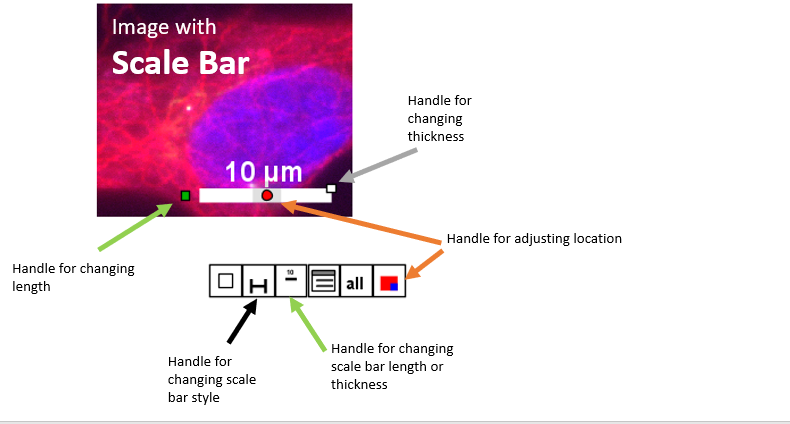
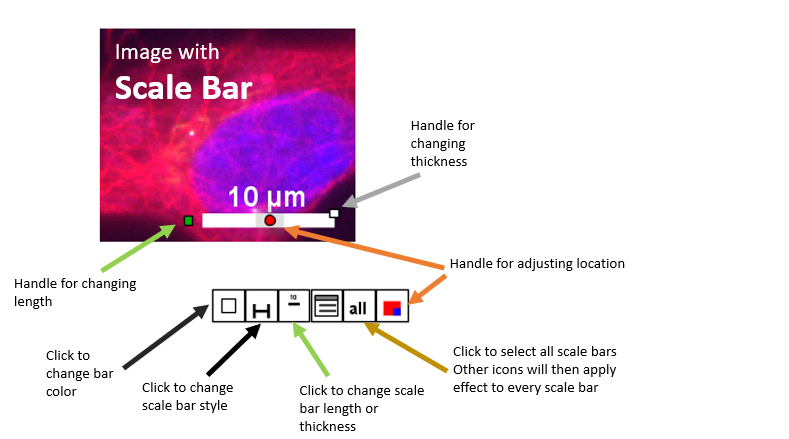
update

Changed region(s): [[0.0, 0.0, 1.0, 1.0], [0.0608, 0.7972, 0.1825, 0.9198], [0.1825, 0.7665, 0.2129, 0.7972]]

diff --git a/UserGuide/User Guide.md b/UserGuide/User Guide.md
@@ -64,10 +64,10 @@ Note: For each of these options. The new figures created will be based on the de
 - The **Object Tools** toolbar is the main toolbar for QuickFigures. It contains all the critical tools for selecting and drawing objects. Like the ImageJ toolbar, double clicking on a tool icon displays an options dialog relevant to that tool. Similarly to the ImageJ toolbar, control clicking/right clicking on many of the tool icons allows the user to access additional tools. The most important tool families are summarized below.  
 
 ![image](images/tools/Object_Selector.png)
-    - The **Object Selector Tool** is used to click on, select and move objects within the figures. Clicking on any object selects it and deselects all others. A user can select multiple objects by holding shift while clicking on one object after another. If a user starts a mouse drag in a location without an object and drags over an area, all objects in the area will be selected after the mouse is released. When an object is selected, its handles will appear. A user can edit an object simply by dragging the handles. A user can right click on an object or handle to display a popup menu specific to the clicked object. If the user double clicks on an object or a handle, a dialog window with options specific to that object or handle may appear. If the user double clicks a text item, that item switches to **text edit mode** in which a user can edit its text via the keyboard. Clicking on another item, switches off text edit mode. For most objects, a set of icons composing a 'mini toolbar' will also appear below the clicked item. By clicking the icons in the mini toolbars one can perform nearly every type of edit. Most edits done with the mini toolbars apply to all selected objects.
+    - The **Object Selector Tool** is used to click on, select and move objects within the figures. Clicking on any object selects it and deselects all others. A user can select multiple objects by holding shift while clicking on one object after another. If a user starts a mouse drag in a location without an object and drags over an area, all objects in the area will be selected after the mouse is released. When an object is selected, its handles will appear. A user can edit an object simply by dragging the handles. A user can right click on an object or handle to display a popup menu specific to the clicked object. If the user double clicks on an object or a handle, a dialog window with options specific to that object or handle may appear. If the user double clicks a [text item](#Text), that item switches to **text edit mode** in which a user can edit its text via the keyboard. Clicking on another item, switches off text edit mode. For most objects, a set of icons composing a 'mini toolbar' will also appear below the clicked item. By clicking the icons in the mini toolbars one can perform nearly every type of edit. Most edits done with the mini toolbars apply to all selected objects.
   
 ![image](images/tools/Layout_Selector.png) 
-    - The **Layout Selector Tool** is a version of the object selector that selects only layouts (even if a layout is behind another object).  
+    - The **Layout Selector Tool** is a version of the object selector that selects only [layouts](#Layouts) (even if a layout is behind another object). Although layouts may be selected using the **Object Selector Tool**, users may find the **Layout Selector Tool** more convenient if a lot of objects are in front of the layout. 
  
 ![image](images/tools/Shape_Tools.png)     
     - The shape tools can be used to draw a variety of shapes. A user can switch back to the **Object Selector Tool** by pressing the spacebar or enter. Right clicking on the tool icons shows the variety of alternate shapes. One may draw rectangles, circles, arrows, polygons, lines, curves, stars, gears, triangles, blobs, and other shapes.
@@ -78,8 +78,12 @@ Note: For each of these options. The new figures created will be based on the de
 ![image](images/tools/QuickFigure.png)     
     - **The Quick Figure Tool** creates a new figure from a multidimensional image. If an image is open in ImageJ, that image will be used to create a figure, otherwise the user will be asked to choose a file. New figures may either be split channel or contain only the merged image depending on what the user has set as the default template.
    -See other sections for details of specialized tools.
+   
+![image](images/tools/InsetTool.png)     
+    - **The Inset Tool** creates a set of small panels that represent a subsection of the parent panel. To use this tool, a figure must already be created. The user can draw a region of interest on one of the image panels in an existing figure. This tool then creates a series of smaller "daughter" panels beside the parent panel. Users can later resize or rotate those regions of interest to change what is displayed in the daughter panels. By double cliking on the inset tool, users can access a dialog that may be used to change how the tool creates daughter panels (altering preferred location, scale factor or number of panels). The regions of interest are editable objects that can be altered just like any [shape](#Shapes). Right cliking on the regions of interest brings up a popup menu with options related to the daughter panels.
 
 ## Section 3: Editing Figures and Channels
+
 ### **Popup Menus** 
 Popup menus appear when a user right clicks on image panels, insets, layouts, or figures. The submenus contain options for many types of edits. The most important submenus and menu items are described below.
 
@@ -98,7 +102,7 @@ The **Figure** submenu appears in the popup menus for layouts and image panels i
  -	**Add Image** submenu allows a user to add a new multidimensional image to the clicked figure. Although users can add source images by dragging/dropping files onto the figure, this option provides an alternative. The scale, the number of channel panels created, and other properties from the existing source image are used for the new one. 
  -	Items in the **Add Labels** submenu create an entire set of labels for the rows, columns or panels of the figure.
  -	The **Recreate All Panels** menu item displays the recreate panels dialog. [See sections on recreate panels dialog for details.](#Recreate-All-Panels-Dialog)
- -	The **Images** submenu of the figure Menu contains several menu items that affect how the source images are used to create the image panels. Each of these items go back to the source images (the 'original datasource') to repeat certain processing steps and update the image panels.
+ -	The **Images** submenu of the Figure Menu contains several menu items that affect how the source images are used to create the image panels. Each of these items go back to the source images (the 'original datasource') to repeat certain processing steps and update the image panels.
      -   **Re-crop** option displays crop dialog windows for the user to change the region of interest and the rotation angle for each of the source images. After the user has changed the size of the first images' selected region, the size chosen becomes the starting size for each subsequent dialog. That allows the user to apply a consistently sized crop area to every image. For users familiar with ImageJ this process is equivalent to opening all the original image files, redrawing the crop areas precisely, using the **Crop** and **Rotate** commands in ImageJ and replacing each image panel in a figure with the newly cropped/rotated version. This single option replaces that entire process (along with the scale step).
     -   **Re-Set Scale** option. This changes the scale factor applied to each image and updates the image panels. For users familiar with ImageJ, this process is equivalent to opening all the original image files, using the **'Scale...'** command in ImageJ repeatedly and replacing every image panel in a figure with the new scaled version. This single option replaces that entire process (along with the rotate and crop steps). 
     -   **Re-Set pixel density**. Functions similarly to the Re-Set scale command. Except this option does not alter the apparent size of the image panels. Instead, the user is prompted to choose a final pixel density (200 pixels per inch for example). Both the scale factor and the panel size are changed such that the final pixel density of each image panel becomes the desired amount. Since journals normally require a certain pixel density (either for the overall figure or for image panels) a user should not choose a pixel density much lower or much higher than their requirements. QuickFigures uses the same inch definition as Adobe Illustrator (72 points).
@@ -115,7 +119,7 @@ The **Figure** submenu appears in the popup menus for layouts and image panels i
  -	**Set Pixel Size**. Equivalent the **Set scale...** menu item within ImageJ. Allows the user to change the physical distance measurements for the size of a pixel. For example, a user can input that 100 pixels of the original source image correspond to 60 micrometers in physical distance. Afterwards, scale bars for each image panel are changed to reflect the new values. 
  -	**Advanced Channel and Frame Use** changes the image to advanced channel use mode and displays the Advanced Channel Use dialog. Although the options in the normal **Channel Use** dialog will be sufficient for most purposes, advanced channel use allows for more customization of panels. Using the buttons in the 'Advanced' channel use dialog, a user can assign a completely arbitrary combination of channels to image panels, add panels, or set an arbitrary stack slice to a panel. A user can also re-order panels or channels via drag/drop (using either the panel list on the left or the channel list on the right). However if the user later selects the normal channel use options (or related menu options), the image will return to normal channel use mode and actions done in advanced channel use mode will not be preserved. 
  -	**Re-Crop** crops only the selected image. Although this changes the crop area, an uncropped version of the full size image is still stored.
- -	**Re-Set Pixel Density**, See re-set pixel density from the figure menu section. This menu item only targets the clicked image.
+ -	**Re-Set Pixel Density**, See re-set pixel density from the [figure menu](#Figure-Submenu) section. This menu item only targets the clicked image.
  
 #### Edit Layout Submenu
 see section on [editing layouts](#Editing-Figure-Layouts) for details.
@@ -124,13 +128,14 @@ see section on [editing layouts](#Editing-Figure-Layouts) for details.
 **Channel Label** submenu contains options related to the [channel labels](#Text). Will only affect the channel labels for the clicked image and not other images in the figure. 
  
 #### Other submenus
-7.	**Expert Options**. Options that are expected to interest relatively few users are placed in these submenus. See supplemental user guide for details of these options (not yet written).
-
-
+7.	**Expert Options**. Options that are expected to interest relatively few users are placed in these submenus. To avoid confusing new users, this user manual does not contain details of those tools. See [supplemental user guide](SupplementalUserGuide.md) for details of these options (not yet written).
 
 #### Image Panel Popup Menu
-The popup menu contains options for [image panel](#Image-Panels). 
-The **Add Shape** submenu along with the **Add Scale Bar**, **Add Text** options are part of this popup menu. Added object are placed above the panel and subject to the same layout. The added scale bar and added text will be [attached](#Attached-Items) to the [image panel](#Image-Panels).
+The popup menu contains options realted to the clicked [image panel](#Image-Panels) or the figure containing that panel. When an image panel is part of a figure, Image Panel popup menus can contain options related to the [channels](#Channels-Submenu), [This Image](#This-Image-Submenu) and the [figure](#Figure-Submenu).
+The **Add Shape** submenu along with the **Add Scale Bar**, **Add Text** options are part of this popup menu for every image panel. Added object are placed in the same layer as the figure and subject to the same layout. The added scale bar and added text will be [attached](#Attached-Items) to the [image panel](#Image-Panels).
+
+#### Scale Bar Popup Menu
+The popup menu contains options realted to the clicked [Scale Bar](#Scale-bars). The **Bar Text** submenu contains options related to the label which indicates a scale bar's length including an option to show or hide the [text](#Text). The **Adjust Position** menu option will display a [Attachment Position Dialog](#Attached-Items) that the user may use to input specific numeric values for the position of the scale bar. Although the scale bars can be moved beteen panels by drag and drop, the **Switch Panels** submenu provides an additional means of transplanting a scale bar.
 
 ### Attached Items
 Certain items like labels and scale bars are 'attached' to image panels (or attached to layouts). When a user moves the parent panel, the attached items will move accordingly. When a user attempts to drag an attached item, it will respond differently than a free object. Locations of attached items are determined by their attachment position and the location of their parent panel. Attached item positions can be edited in a few ways.
@@ -140,7 +145,7 @@ Certain items like labels and scale bars are 'attached' to image panels (or atta
   ![image](images/Dialogs/PositionDialog.png)
   
 ### Attachment Submenus
-**Attach Item** and **Release Item** submenus appear in the popup menus for [layouts](#Layouts) or [image panels](#Image-Panels) if there is an object in position for attachment (or already attached). See section on [attached items](#Attached-Items) for details. Since labels and scale bars are automatically attached to panels and can be moved by drag/drop, users should rarely have any need to attach/detach objects manually. If not relevant object is available, these submenus will not appear.
+**Attach Item** and **Release Item** submenus appear in the popup menus for [layouts](#Layouts) or [image panels](#Image-Panels) if there is an object in position for attachment (or already attached). See section on [attached items](#Attached-Items) for details. Since labels and scale bars are automatically attached to panels and can be moved by drag/drop, users should rarely have any need to attach/detach objects manually. If no relevant object is available, these submenus will not appear. In order to move an object into position for attachment, drag the item above the parent that you want to attach it to.
 
 ### Editing Figure Layouts
 Figure layouts can be edited in three ways 1) by clicking the layout and dragging the handles or 2) by using the tools in the 'layout tools' toolbar or 3) by right clicking on the layout and using the options in popup menu. Since all three of these methods allow the same types of edits, one does not need to learn every single method.
@@ -170,14 +175,15 @@ An addition toolbar for layout tools is available. The user can go to Toolbars->
 -	**Panel number change** tool. Changes the number of rows and columns.
 -	**Label Text Tools**. Allow the user to add row, column or panel labels.
 -	**Scale layout** tool. Scales the figure.
--	**Expert tools** (see Appendix)
+-	**Expert tools** These will appear in the popup menu for the panelnumber change tool. Since these tools will be of itnerest to only a few users, details of their function are not included in this user guide. See [supplemental user guide](SupplementalUserGuide.md) (not yet created). 
 
 #### 3) **Editing the layout using popup menus and dialogs**
 A popup menu will appear if the user right clicks on a layout (using the object selector tool). The **Edit Layout** submenu allows the user to perform the same tasks as the layout handles and layout tools. Different dialog windows will appear for each menu item. Within the dialog windows, users may input specific numbers for the measurements of their layouts. If a user double clicks on a layout, (or a layout handle) similar dialog windows will appear. Depending on the location being clicked, a different dialog will be shown. 
 ![image](images/layout/LayoutEditMenu.png)  
 
 #### 4) **Layout content** 
-Layout handles, layout tools and menus only affect objects that are within the layout. Objects that are both within the same parent layer as a layout and within the bounds of the layout are treated as within the layout. Although the layer structure is organized automatically, a user can also manually move objects between layers using the layers window (see section on layers window). 
+Layout handles, layout tools and menus only affect objects that are within the layout. Objects that are both within the same parent layer as a layout and within the bounds of the layout are treated as within the layout. Although the layer structure is organized automatically, a user can also manually move objects between layers using the [layers window](#Layers-Window). 
+
 ### Specialized Dialog windows
 
 #### Recreate All Panels Dialog
@@ -217,7 +223,7 @@ For automatically created figures, the layer structure is organized automaticall
 ## The Menus and Menu Bar
 The **Menu Bar** contains only a few major menus. File, Edit, Selected Item(s) and Add.
 ### File Menu
-- The **File** menu is designed similarly to the file menu in any software. The export submenu contains menu items to export into one of several possible file formats (PPT, SVG, PDF, TIF, PNG or EPS ). The **New**, **Save**, and **Open**, submenus contain menu items that create, store and retrieve QuickFigures worksheets and all of the figures/objects within them. Although both the save and the open menu items are fully functional, the form that the saved files take will change in future updates to QuickFigures. Although the saved files may be used for short term storage, users should export the files into a format such as SVG, PDF or PowerPoint.
+- The **File** menu is designed similarly to the file menu in any software. The **Export** submenu contains menu items to export into one of several possible file formats (PPT, SVG, PDF, TIF, PNG or EPS ). The export submenu also contains an option to generate the figure in Adobe Illustrator. The **New**, **Save**, and **Open**, submenus contain menu items that create, store and retrieve QuickFigures worksheets and all of the figures/objects within them. Although both the save and the open menu items are fully functional, the form that the saved files take will change in future updates to QuickFigures. Although the saved files may be used for short term storage, users should export the files into a format such as SVG, PDF or PowerPoint.
 
 ### Edit Menu
 The **Edit** menu contains a variety of options that do not depend on which objects have been selected.
@@ -242,7 +248,7 @@ Within the **Selected Item(s)**  menu there are several submenus.
 -	**Align** submenu contains options to align the currently selected items. Since items in automatically generated figures are automatically aligned to the layout, users will rarely need to user this menu. These options are also available via the **Align and Arrange** toolbar.
 -	**Arrange** submenu contains options to move and item forward or backwards within a layer. Since items in automatically generated figures are automatically arranged, users will rarely need to user this menu. These options are also available via the **Align and Arrange** toolbar.
 -	**Options Dialogs** submenu provides a way of opening dialogs for editing of objects. If multiple objects of the same type are selected, the dialogs will affect all items that were selected when the dialog was opened. Similar dialogs can be accessed via popup menus, double clicking objects, and clicking certain items in the mini toolbar. Some journals demand a specific font, minimum font size and minimum line width. The **Impose Journal Limits** menu option provides the user an easy was to change those properties via dialog.  Other options are specific to each category of object (text, image panel, scale bar, shape).
--	**Applications Scripts** is a specific submenu for generating scripts to create the objects in adobe illustrator. The script feature was tested using Adobe Creative Suite 5 on MacOS. However it has not been updated for Adobe creative cloud and will not function. Identical options is present in the export menu (will be exclusively in the export menu in later versions of QuickFigures).
+-	**Applications Scripts** is a specific submenu for generating scripts to create the objects in adobe illustrator. The script feature was developed using Adobe Creative Suite 5 on MacOS but later updated and retested with illustrator 25.2.1 on windows. Although it is optimal for users who want to continue their work in adobe Illustrator, it is only useful when a working copy of Illustrator is available. Adobe Illustrator must be set as the default software for opening .jsx files for these features to work. Identical options are present in the export menu (will be exclusively in the export menu in later versions of QuickFigures).
 -	**Figure Format** The version of the figure format submenu in the selected items menu will act on the currently selected items only. See section on figure format. 
 - The **Toolbars** menu allows the user to open specific toolbars. Users may close toolbars that they do not need and open them again using this menu. Only the main toolbar is critical for use of QuickFigures, the others are optional.
 Smart Toolbar and mini toolbars. When a user selects an item, a set of icons will appear below the selected item. These function as a mini toolbar providing quick access to options specific to the selected item. If a user selects multiple items, the mini toolbar will only appear under one item but will (in most cases) affect every selected item. Furthermore, the user may find it more convenient to use the Smart toolbar (Toolbar) which will show the same icons in a separate window. Whenever a user selects a new item, the icons in the smart toolbar will change to reflect what options are available for that object type.
@@ -252,11 +258,11 @@ The 'shape and text edit action tools' provide a quick way of making specific ty
 
 ## Object types 
 ### Scale bars 
-Scale Bars can be attached to an image panel. User can change the length, thickness or appearance of a scale bar by dragging the handles (see diagram below). Each scale bar has a special text object that displays the length of the scale bar. As with other items, a scale bar specific popup menu will appear when one right clicks while a scale bar specific dialog will appear if one double clicks.
+Scale Bars can be attached to an image panel. User can change the length, thickness or appearance of a scale bar by dragging the handles (see diagram below). Each scale bar has a special text object that displays the length of the scale bar. As with other items, a scale bar specific [popup menu](#Scale-Bar-Popup-Menu) will appear when one right clicks while a scale bar specific dialog will appear if one double clicks.  
 ![image](images/objects/ScaleBar.png)  
 
 ### Image Panels
-Image Panels display images. Image Panels may either be part of a figure or stand-alone objects. Those that are part of a figure may change appearance when the user changes channel colors or alters the display range for a channel. Panels that are part of a figure will also contain additional handles (see diagram below). Image Panel popup menus can contain options related to the [channels](#Channels-Submenu), [This Image](#This-Image-Submenu) and the [figure](#Figure-Submenu). For precise alignment of image panels to layouts, a user can drag the center handle of the image panel and drop near the desired panel. While the user drags the center handle, a rectangle will appear in the destination location. If another image panel occupies the destination location, the locations of the two image panels will be swapped. Image Panels may have a colored 'frame' drawn around them (see below). A user can change the width of the frame by dragging the magenta handle. Users will rarely or never need to move image panels directly. If a user wants to avoid accidental edits, that user may select the **Protect from mouse drags** checkbox in the options dialog for image panels.
+Image Panels display images. Image Panels may either be part of a figure or stand-alone objects. Those that are part of a figure may change appearance when the user changes channel colors or alters the display range for a channel. Panels that are part of a figure will also contain additional handles (see diagram below) and a more complex [popup menu](#Image-Panel-Popup-Menu). For precise alignment of image panels to layouts, a user can drag the center handle of the image panel and drop near the desired panel. While the user drags the center handle, a rectangle will appear in the destination location. If another image panel occupies the destination location, the locations of the two image panels will be swapped. Image Panels may have a colored 'frame' drawn around them (see below). A user can change the width of the frame by dragging the magenta handle. Users will rarely or never need to move image panels directly. If a user wants to avoid accidental edits, that user may select the **Protect from mouse drags** checkbox in the options dialog for image panels.
 ![image](images/objects/ImagePanel.png)  
 
 ### Layouts
@@ -264,14 +270,20 @@ Layouts are also a type of object. See section on [editing layouts](#Editing-Fig
 
 ### Text 
 There are multiple types of text items. The major types are described below.  
-**Simple Text Items** are fragments of text with only one font, one line, one color and one format.  
-**Complex Text Items** may contain multiple lines of text with sections that may be superscript, subscript, different font styles, underline, strikethrough, or colors. A user can select a section of text while in edit mode and click one of the icons that appear below it to change the format (icons shown in screenshot below). Row Labels, Column Labels and Plot labels are special kinds of complex labels.  
+
+**Simple Text Items** are fragments of text with only one font, one line, one color and one format. When text is selected, the handles shown below will be visible. Users can click or drag handles to perform any type of edit.  
+![image](images/objects/SimpleText.png)  
+
+**Complex Text Items** may contain multiple lines of text with sections that may be superscript, subscript, different font styles, underline, strikethrough, or colors. A user can select a section of text while in edit mode and click one of the icons that appear below it to change the format making the section of text  Bold, Italic, Subperscript, unserlined or strikethrough (icons shown in screenshot below). Row Labels, Column Labels and Plot labels are special kinds of complex labels.  
 ![image](images/objects/TextComplex.png) 
-**Channel Labels** a special kind of text item that indicates the color and name of a channel. Label Color may change if user changes a channel's color. The merge label can take several forms. Additional options specific for the merge label appearance are accessible in the mini toolbars (see screenshot below) or the dialog windows.  
+
+**Channel Labels** a special kind of text item that indicates the color and name of a channel. Label Color may change if user changes a channel's color. Users can rename a channel by editing the text of these labels. The label for a merged image panel (merge label) can take several forms. Additional options specific for the merge label appearance are accessible in the mini toolbars (see screenshot below) or the dialog windows.  
 ![image](images/objects/MergeLabel.png) 
 
 ### Shapes
-Several types of shapes can be drawn within QuickFigures. Shapes may be resized or rotated using the handles. The main shape categories are summarized below.
+Several types of shapes can be drawn within QuickFigures. Shapes may be resized or rotated using the handles that appear when a shape is selected. The diagram below shows a selected shape with the handles.
+![image](images/objects/ShapeExample.png)  
+The main shape categories are summarized below.  
 -	Rectangle is the simplest shape available. Contains several handles for resizing the rectangle. An orange handle allows user to rotate the rectangle. A magenta colored handle provides the user a means of changing the stroke width. Double clicking on a handle opens a dialog window where specific values can be entered in place of dragging the handle. 
 -	Rounded Rectangle- Works similarly to the rectangle. Two additional handles for altering the rounding are present on this shape.
 -	Notched Rectangle- Works similarly to the rectangle. Two additional handles for altering the shape of the notch are also present on this shape. A third additional handle operates as a menu for changing the type of notch. Yet more handles allow the user to change which corner of the rectangle is notched.
